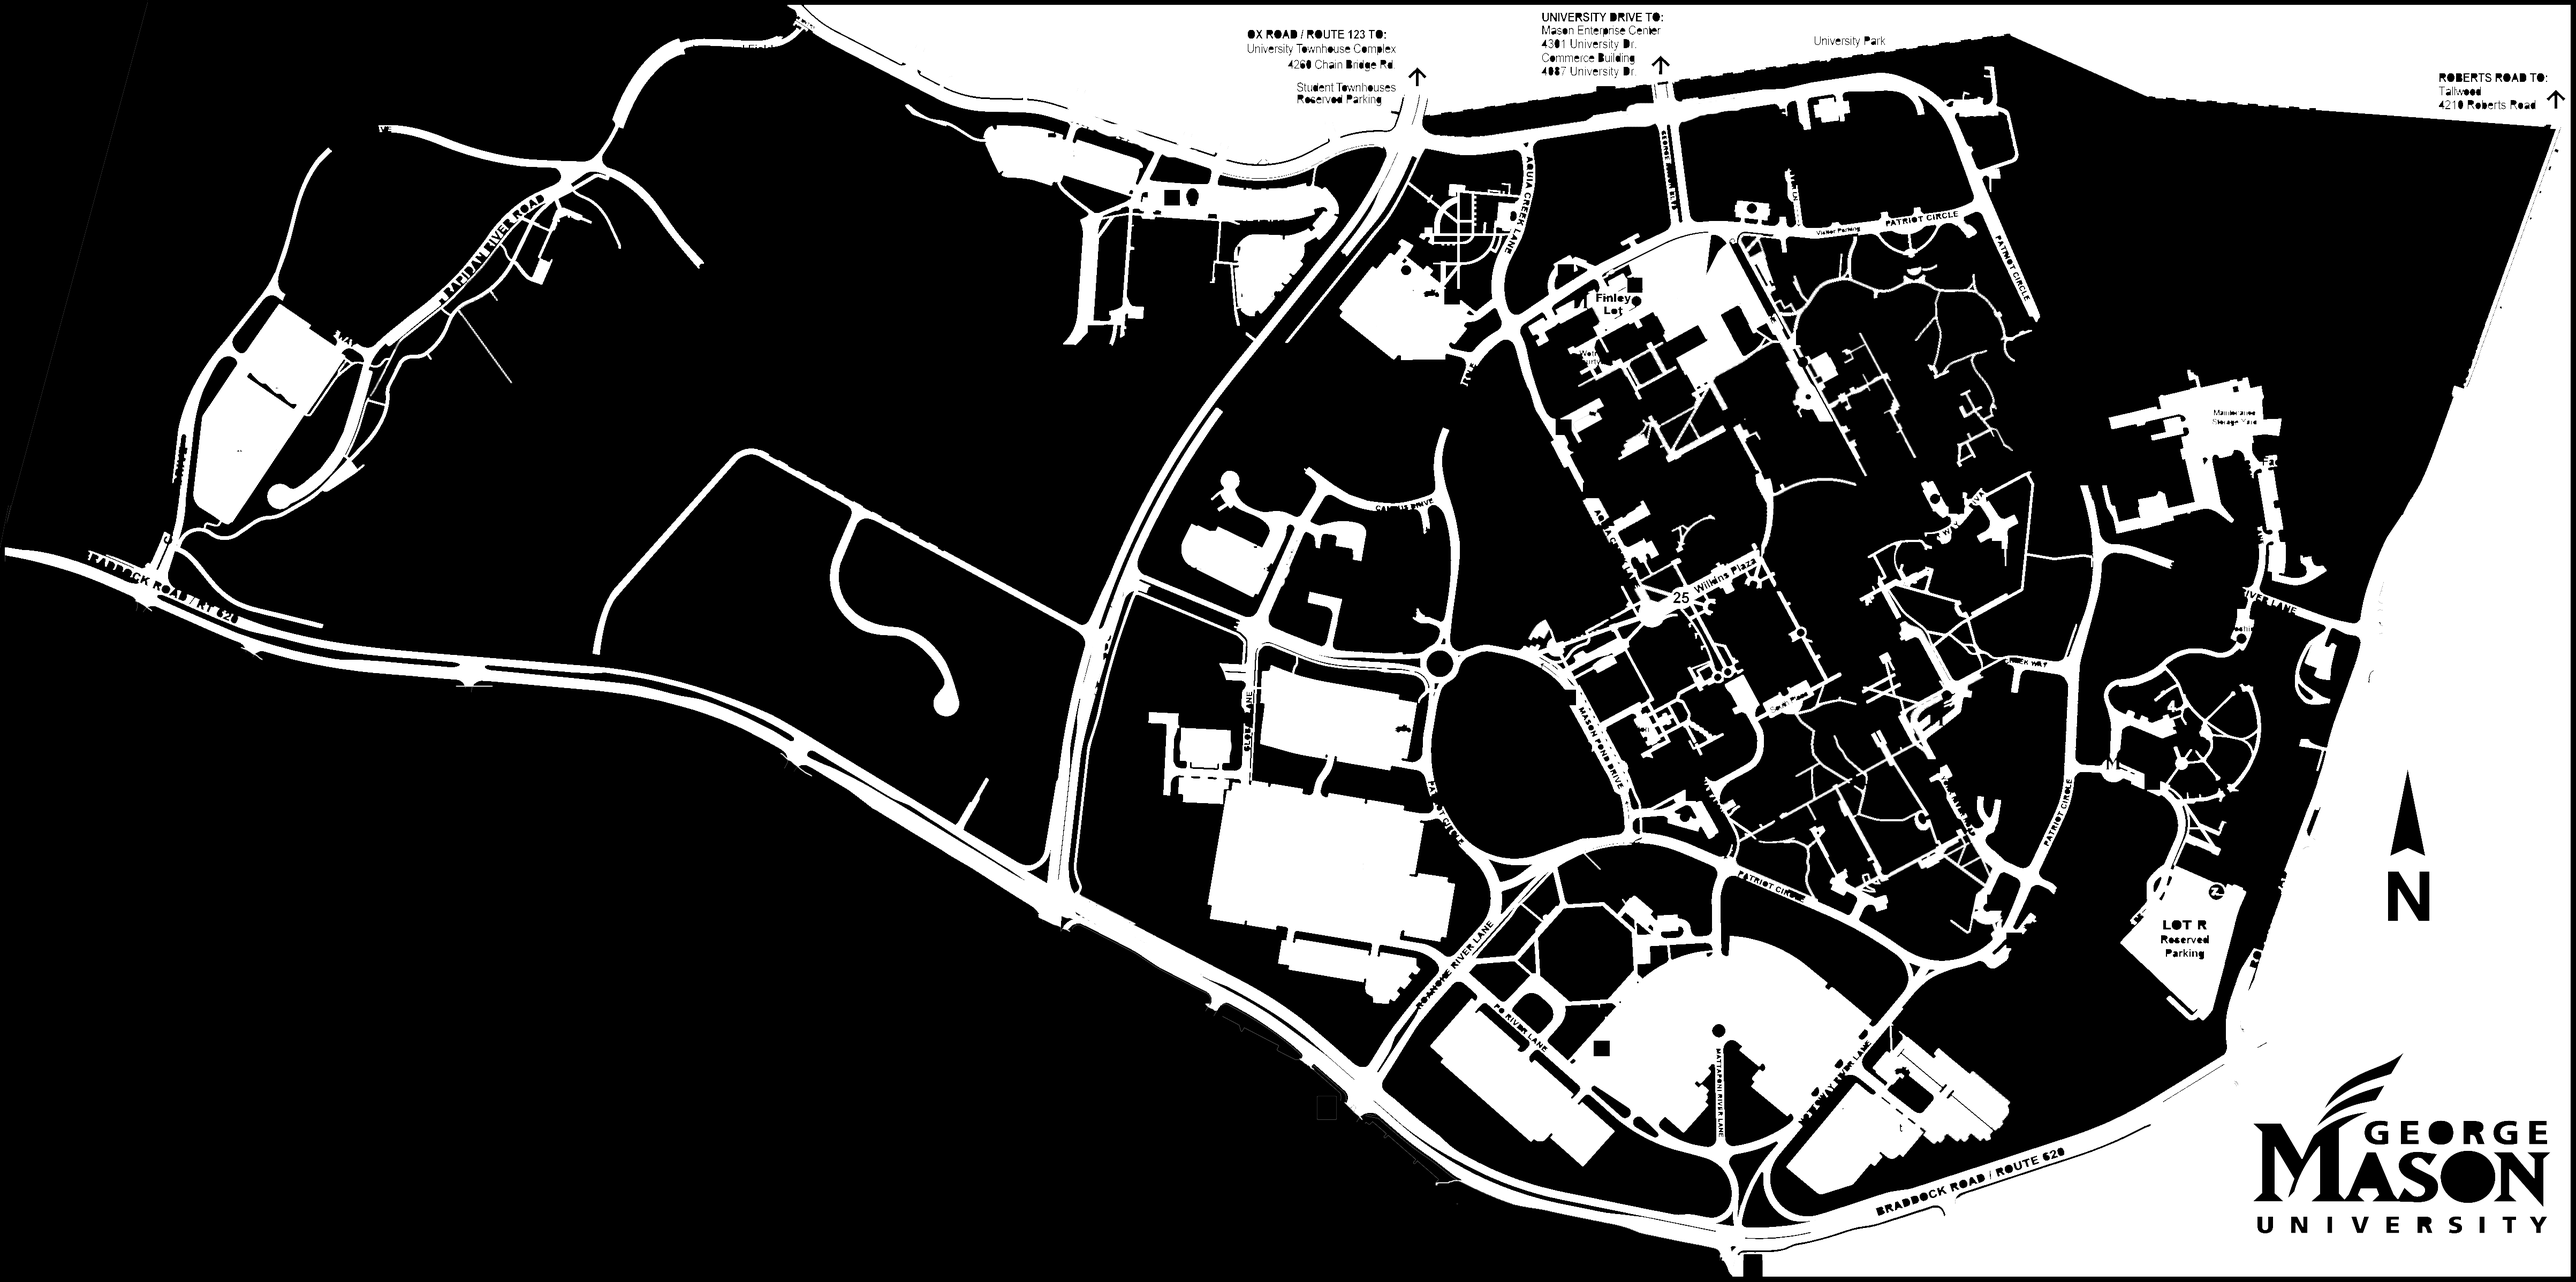
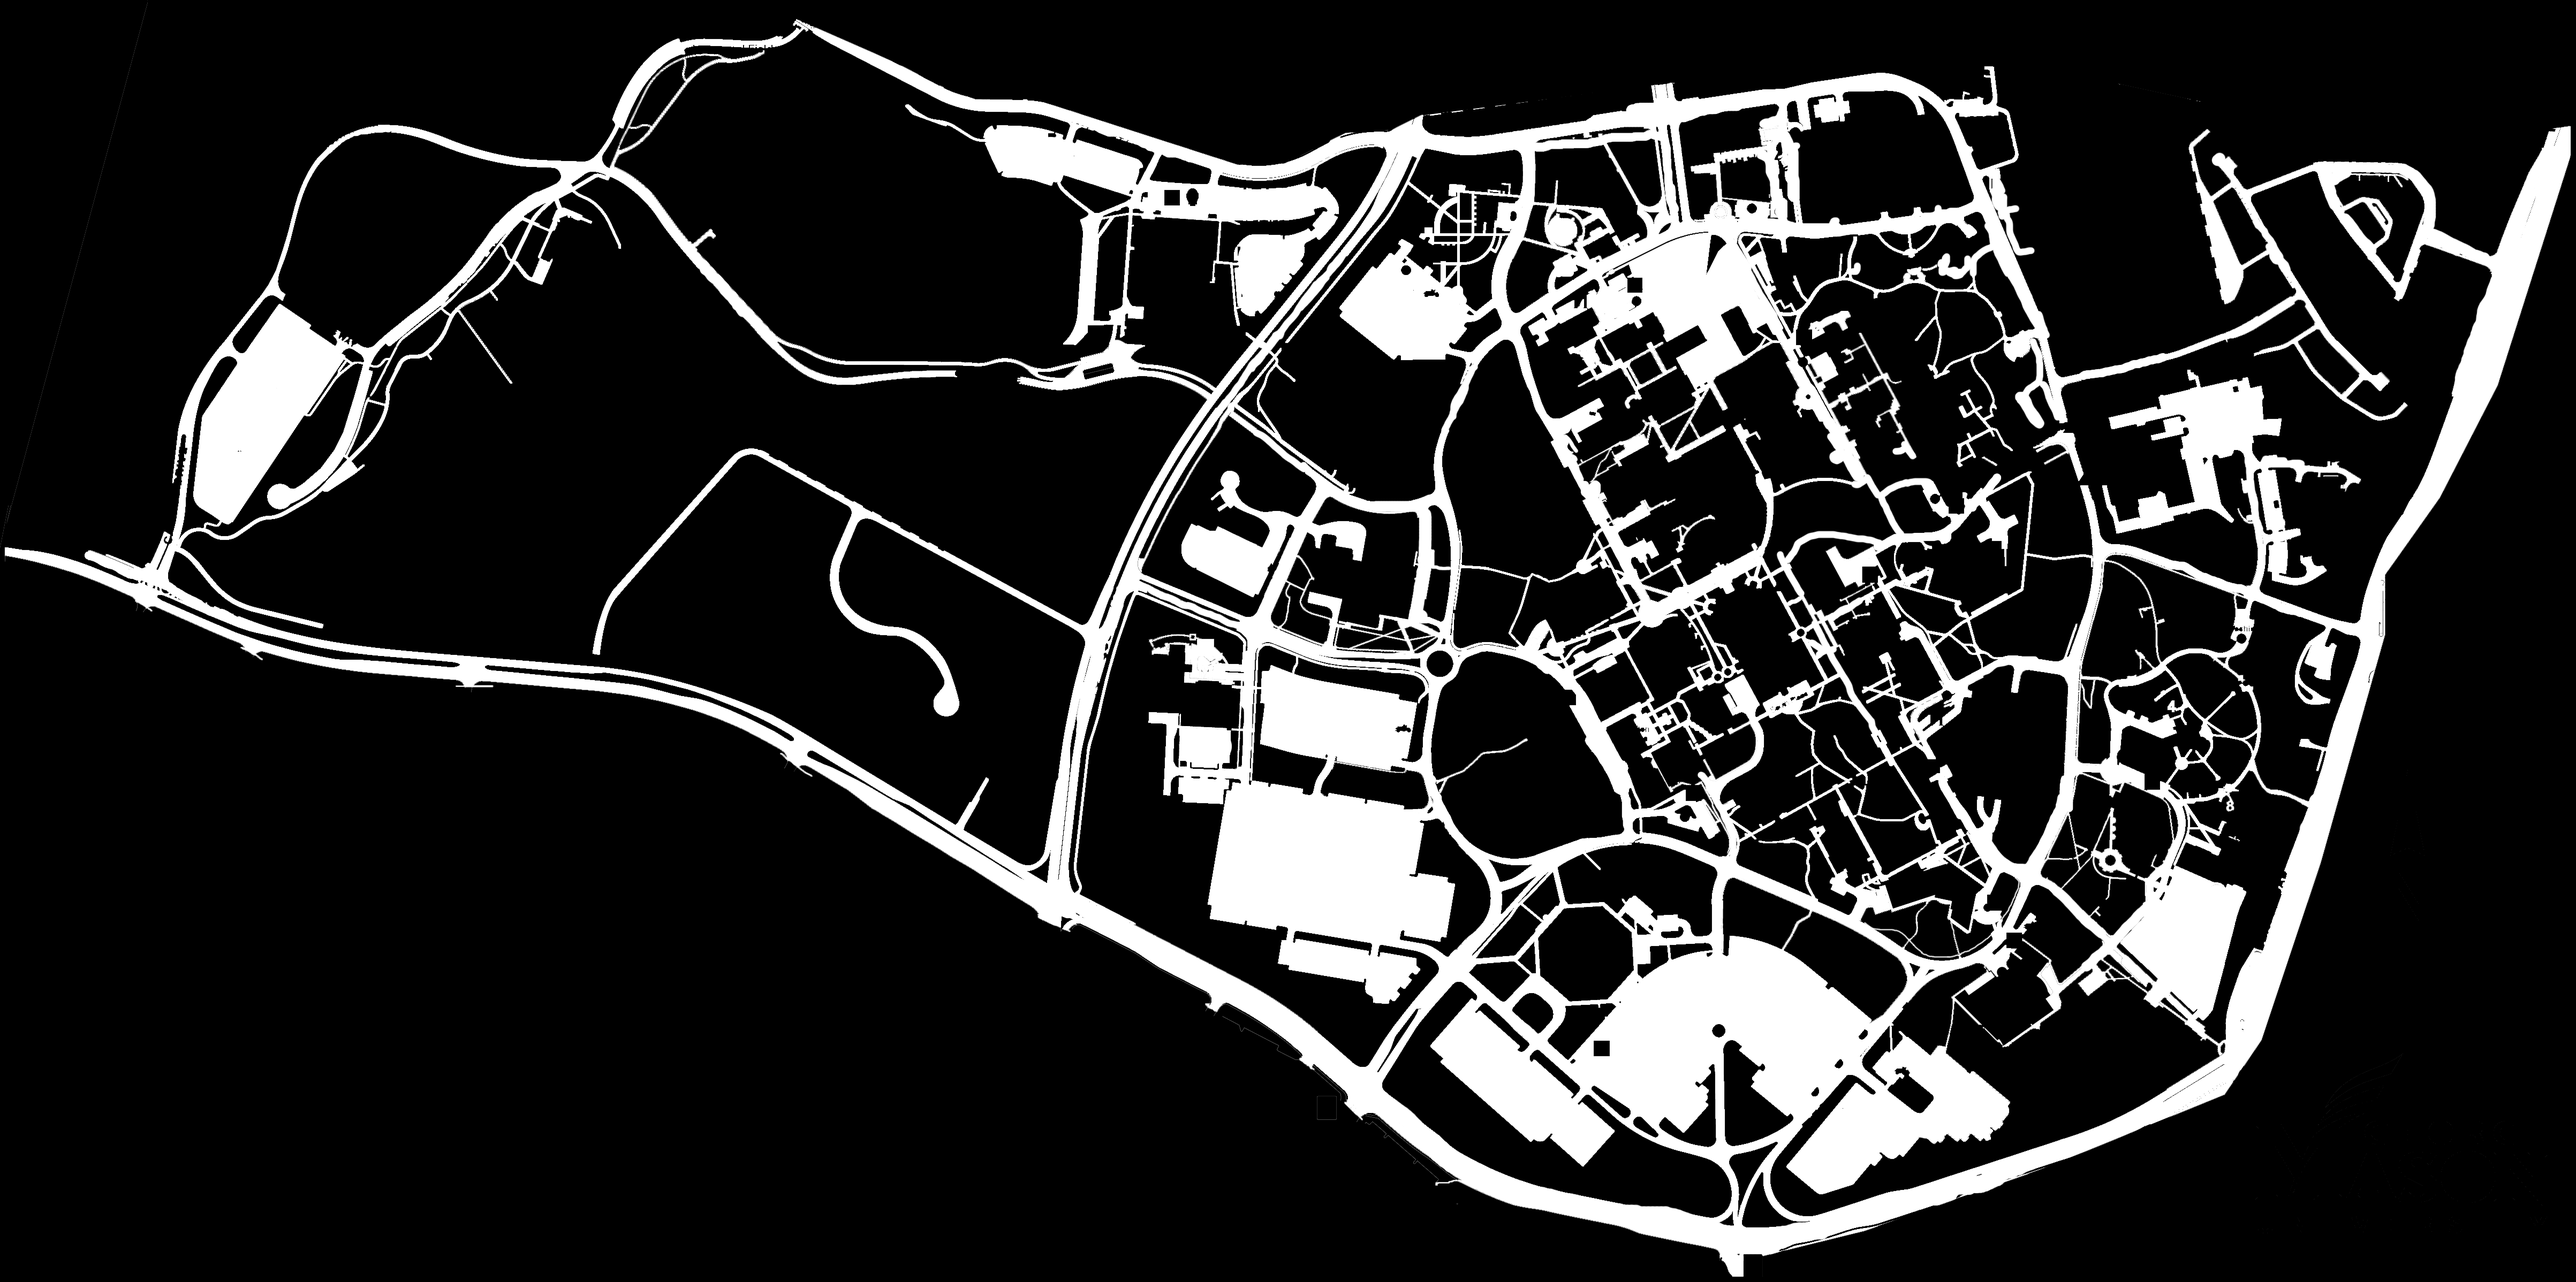
Working on node stuff

diff --git a/CS321CourseProject/src/UI/MapPanel.java b/CS321CourseProject/src/UI/MapPanel.java
@@ -18,10 +18,17 @@ import java.awt.event.MouseWheelListener;
 import java.awt.geom.AffineTransform;
 import java.awt.geom.Rectangle2D;
 import java.awt.image.BufferedImage;
+import java.awt.image.DataBufferUShort;
+import java.awt.image.DataBufferByte;
+import java.io.File;
+import java.io.IOException;
+import javax.imageio.ImageIO;
 
 import javax.swing.ImageIcon;
 import javax.swing.JFrame;
 import javax.swing.JPanel;
+
+import Map.Node;
 
 public class MapPanel extends JPanel implements MouseWheelListener, MouseListener, MouseMotionListener  {
 
@@ -95,6 +102,8 @@ public class MapPanel extends JPanel implements MouseWheelListener, MouseListene
 	 */
 	private double translateY = -9;
 	
+	private String imagePath = null;
+	
 	/**
 	 * Indicates whether or not the user has clicked-and-dragged since the last draw.
 	 */
@@ -108,13 +117,76 @@ public class MapPanel extends JPanel implements MouseWheelListener, MouseListene
 	
 	private Rectangle2D imageBounds = null;
 	
-	public MapPanel(MainFrame parent, String image) {
+	private Node[][] nodes = null;
+	
+	public MapPanel(MainFrame parent, String imagePath) {
 		this.parent = parent;
-		this.mapImage = new ImageIcon(image).getImage();
+		this.imagePath = imagePath;
+		this.mapImage = new ImageIcon(imagePath).getImage();
 		
 		addMouseWheelListener(this);
 		addMouseListener(this);
 		addMouseMotionListener(this);
+		
+		try {
+			loadNodes();
+		} catch (IOException e) {
+			// TODO Auto-generated catch block
+			e.printStackTrace();
+		}
+	}
+	
+	/**
+	 * Load nodes based on RGB of image. Eventually we'll just serialize and deserialize them directly.
+	 */
+	private void loadNodes() throws IOException {
+		System.out.println("Loading nodes...");
+		BufferedImage bufferedMapImage = ImageIO.read(new File(imagePath));
+		//BufferedImage bufferedMapImage = ImageIO.read(MapPanel.class.getResource("C:\\Users\\Benjamin\\Documents\\School\\Fall 2019\\CS 321\\CS321\\CS321CourseProject\\src\\Res\\CampusMapForNodes.png"));
+		short[] pixels = ((DataBufferUShort)bufferedMapImage.getRaster().getDataBuffer()).getData();
+		
+		final int width = bufferedMapImage.getWidth();
+        final int height = bufferedMapImage.getHeight();
+	    
+        int nodeID = 0;	
+	    // https://stackoverflow.com/questions/6524196/java-get-pixel-array-from-image
+	    // boolean[][] rgbArray = new boolean[height][width];
+	    Node[][] nodes = new Node[height][width];
+    	final int pixelLength = 4;
+    	for (int i = 0, row = 0, col = 0; i + 3 < pixels.length; i += pixelLength) {
+    		int argbValue = 0;
+    		// The values are stored in the format ARGB (alpha, red, green, blue), so
+    		// that's why we compute the offsets the way we do. We also have to mask
+    		// the values to extract the specific color value correctly.
+    		argbValue += (((int) pixels[i] & 0xff) << 24); // alpha
+			argbValue += ((int) pixels[i + 1] & 0xff); // blue
+			argbValue += (((int) pixels[i + 2] & 0xff) << 8); // green
+			argbValue += (((int) pixels[i + 3] & 0xff) << 16); // red
+			Node nextNode = new Node(nodeID, "Node " + nodeID++, (argbValue == 1020), row, col, 
+					null, null, null, null);
+			nodes[row][col] = nextNode;
+			if (col > 0) {
+				Node left = nodes[row][col - 1];
+				left.setRightNode(nextNode);
+				
+				nextNode.setLeftNode(left);
+			}
+			if (row > 0) {
+				Node above = nodes[row - 1][col];
+				above.setBottomNode(nextNode);
+				
+				nextNode.setTopNode(above);
+			}
+			col++;
+			// If we've reached the end of a column, reset the column index to zero and increment row.
+			if (col == width)
+			{
+				col = 0;
+				row++;
+			}
+    	}
+    	
+    	this.nodes = nodes;
 	}
 	
 	/**
@@ -210,6 +282,16 @@ public class MapPanel extends JPanel implements MouseWheelListener, MouseListene
         
     	// printDebugInfo();
         
+        for (int i = 0; i < nodes.length; i++) {
+        	for (int j = 0; j < nodes[i].length; j++) {
+        		Node n = nodes[i][j];
+        		if (n.getValid()) {
+        			g2.setColor(Color.GREEN);
+        			g2.fillOval(i, j, 1, 1);
+        		}
+        	}
+        }
+        
         // Draw the image on the screen with transformation applied.
 	    g2.drawImage(mapImage,  0,  0,  null);
 	}
@@ -270,7 +352,13 @@ public class MapPanel extends JPanel implements MouseWheelListener, MouseListene
 		Point clicked = eventArgs.getPoint();
 		
 		if (imageBounds.contains(clicked)) {
-			System.out.println("Click at " + clicked + ". (Image clicked!)");
+			Node clickedNode = nodes[clicked.x][clicked.y];
+			if (clickedNode.getValid()) {
+				System.out.println("Click VALID node at " + clicked + ". (Image clicked!)");
+			}			
+			else {
+				System.out.println("Click INVALID node at " + clicked + ". (Image clicked!)");
+			}
 		} else {
 			System.out.println("Click at " + clicked + ". (Image NOT clicked!)");
 		}

diff --git a/CS321CourseProject/src/UI/MainWindow.java b/CS321CourseProject/src/UI/MainWindow.java
@@ -29,13 +29,16 @@ public class MainWindow {
 
 	private MainFrame frame;
 	
-	private BufferedImage mapImage;
-	
 	private static final int width = 1280;
 	private static final int height = 720;
 	private static final float resizeWeight = 0.3333f;
 	private static final float dividerLocation = 0.3333f;
+	
+	private static final String regularCampusMapPath = "src\\Res\\campus_map.png";
+	private static final String campusMapForNodes = "src\\Res\\CampusMapForNodes.png";
 
+	private String imagePath = null;
+	
 	/**
 	 * Launch the application.
 	 */
@@ -43,7 +46,7 @@ public class MainWindow {
 		EventQueue.invokeLater(new Runnable() {
 			public void run() {
 				try {
-					MainWindow window = new MainWindow();
+					MainWindow window = new MainWindow(regularCampusMapPath);
 					window.frame.setVisible(true);
 				} catch (Exception e) {
 					e.printStackTrace();
@@ -56,9 +59,9 @@ public class MainWindow {
 	 * Create the application.
 	 * @throws IOException 
 	 */
-	public MainWindow() throws IOException {
+	public MainWindow(String imagePath) throws IOException {
+		this.imagePath = imagePath;
 		initialize();
-		mapImage = ImageIO.read(new File("src\\Res\\campus_map.png"));
 	}
 
 	/**
@@ -86,7 +89,7 @@ public class MainWindow {
 		splitPane.setResizeWeight(resizeWeight);
 		
 		//ImageIcon mapIcon = new ImageIcon("G:\\Documents\\School\\College\\Senior Year\\CS 321\\Course Project\\Workspace\\CS321CourseProject\\src\\Res\\campus_map.png");
-		ImageIcon mapIcon = new ImageIcon("src\\Res\\campus_map.png");
+		ImageIcon mapIcon = new ImageIcon(this.imagePath);
 		JLabel mapImageLabel = new JLabel(mapIcon);
 		
 		mapImageLabel.setPreferredSize(new Dimension(mapIcon.getIconWidth(), mapIcon.getIconHeight()));
@@ -106,7 +109,7 @@ public class MainWindow {
 		scrollPane.getViewport().setScrollMode(JViewport.BACKINGSTORE_SCROLL_MODE);
 		mapPanel.setLayout(new GridLayout(0, 1, 0, 0));
 		
-		MapPanel mapImagePanel = new MapPanel(frame, "src\\Res\\campus_map.png");
+		MapPanel mapImagePanel = new MapPanel(frame, this.imagePath);
 		mapImagePanel.setPreferredSize(new Dimension(mapIcon.getIconWidth(), mapIcon.getIconHeight()));
 		mapPanel.add(mapImagePanel);
 		mapImagePanel.setPreferredSize(new Dimension(mapIcon.getIconWidth(), mapIcon.getIconHeight()));

diff --git a/CS321CourseProject/src/Map/Node.java b/CS321CourseProject/src/Map/Node.java
@@ -9,16 +9,40 @@ enum Terrain{
 }
 
 public class Node {
-    private List <Node> nodeList = new ArrayList<Node>();
+    private Node topNode;
+    private Node leftNode;
+    private Node rightNode;
+    private Node bottomNode;
+    private boolean valid;
     private int id;
     private Terrain terrain;//values are walkable or blocked as of 10/22/19 RT
     private String label;
+    private int x;
+    private int y;
 
-    public Node(int id, String label, List<Node> nodeList)
+    public Node(int id, 
+    		    String label, 
+    		    boolean valid,
+    		    int x,
+    		    int y,
+    		    Node top, 
+    		    Node left, 
+    		    Node right, 
+    		    Node bottom)
     {
         this.id = id;
-        this.nodeList = nodeList;
         this.label = label;
+        this.valid = valid;
+        this.x = x;
+        this.y = y;
+        this.topNode = top;
+        this.leftNode = left;
+        this.rightNode = right;
+        this.bottomNode = bottom;
+    }
+    
+    public boolean getValid() {
+    	return valid;
     }
 
     public int getId()
@@ -30,10 +54,37 @@ public class Node {
     {
     	return terrain;
     }
-
-    public List<Node> getList()
-    {
-        return nodeList;
+    
+    public Node getTopNode() {
+    	return topNode;
+    }
+    
+    public void setTopNode(Node n) {
+    	this.topNode = n;
+    }
+    
+    public Node getLeftNode() {
+    	return leftNode;
+    }
+    
+    public void setLeftNode(Node n) {
+    	this.leftNode = n;
+    }
+    
+    public Node getRightNode() {
+    	return rightNode;
+    }
+    
+    public void setRightNode(Node n) {
+    	this.rightNode = n;
+    }
+    
+    public Node getBottomNode() {
+    	return bottomNode;
+    }
+    
+    public void setBottomNode(Node n) {
+    	this.bottomNode = n;
     }
 
     public String getLabel()

diff --git a/CS321CourseProject/src/Map/ClickableNode.java b/CS321CourseProject/src/Map/ClickableNode.java
@@ -1,0 +1,18 @@
+package Map;
+
+/***
+ * 
+ *  To be used in the creation of an interactable map to easily access nodes clicked on by the user.
+ * 
+ * @author arari
+ *
+ */
+public class ClickableNode {
+
+	private Node node;
+	
+	public Node getNode() {
+		return node;
+	}
+	
+}

diff --git a/CS321CourseProject/src/UI/Selection.java b/CS321CourseProject/src/UI/Selection.java
@@ -2,6 +2,8 @@ package UI;
 
 import java.util.ArrayList;
 
+import Map.ClickableNode;
+
 /***
  * 
  * Class for holding and manipulating multiple ClickableNodes at once.
